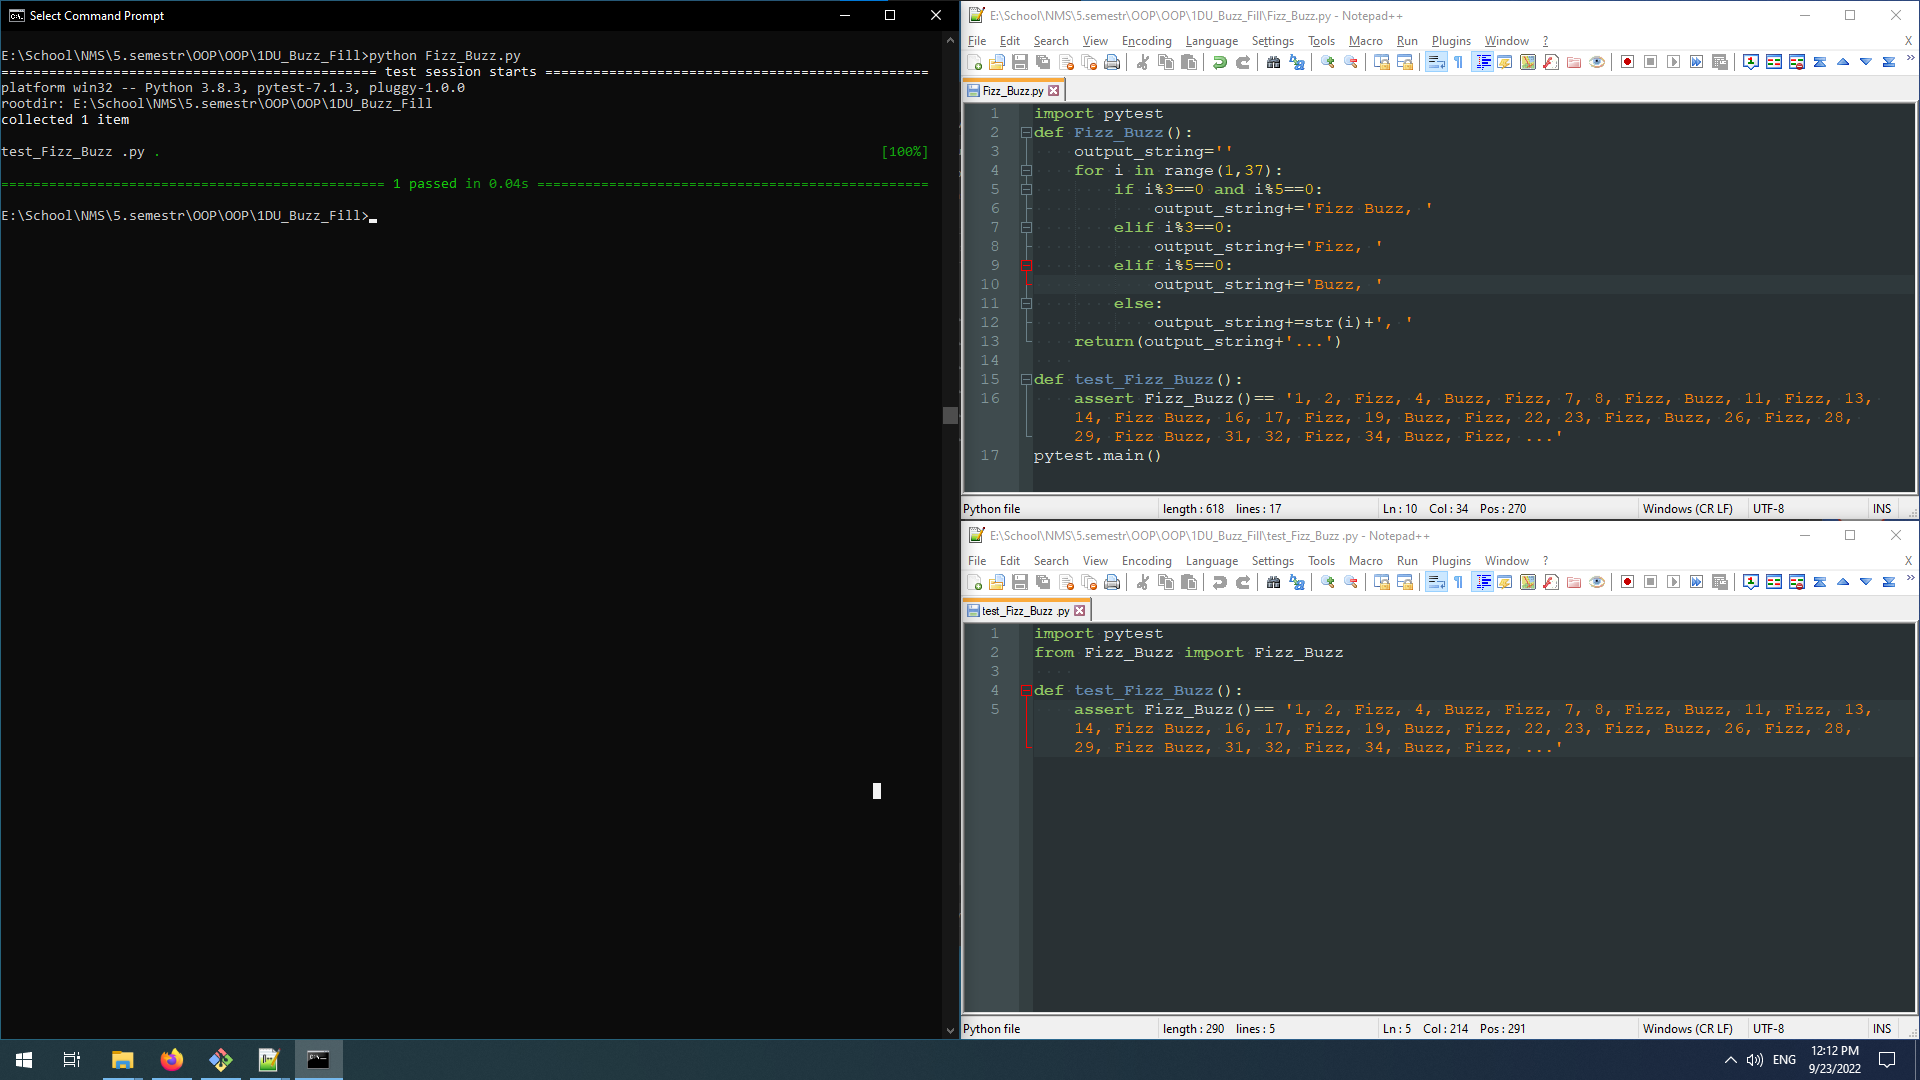
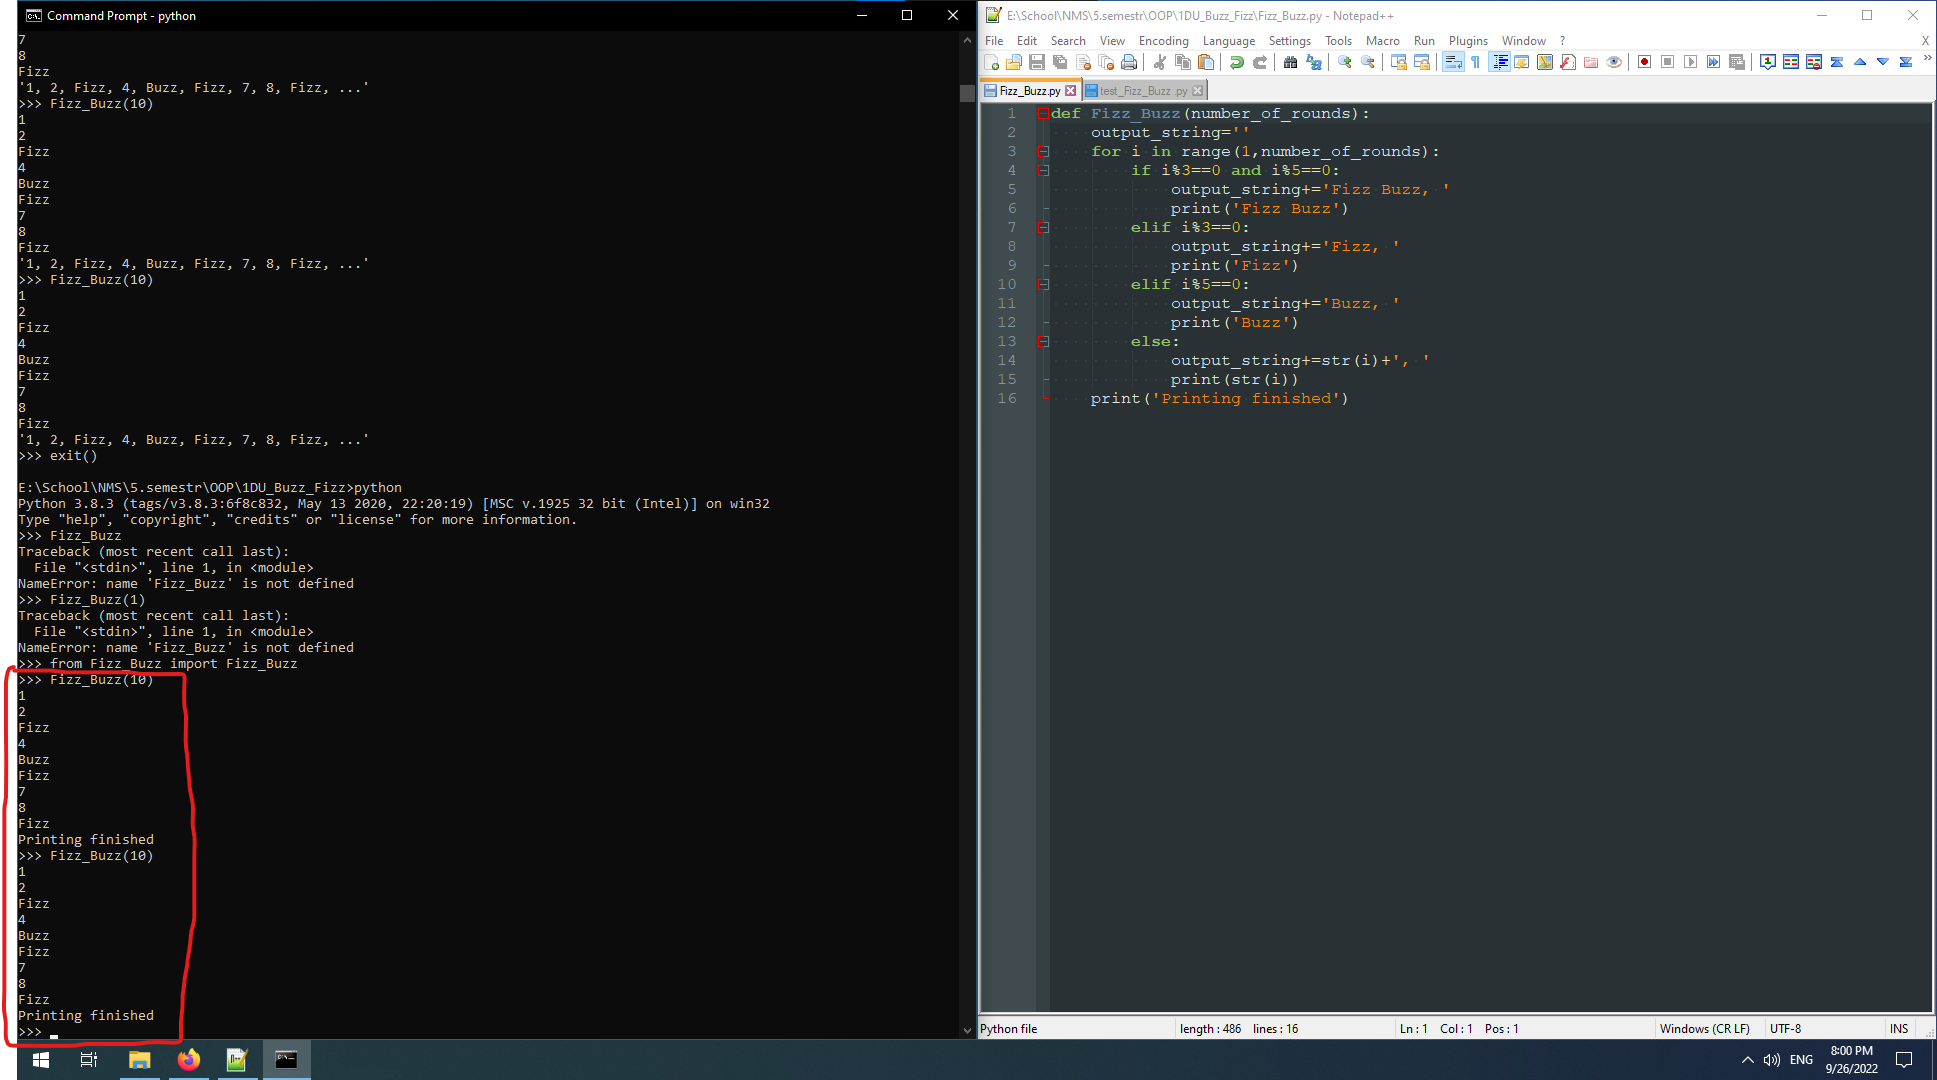
Correcting algorithm according to the task

diff --git a/1DU_Buzz_Fizz/Fizz_Buzz.py b/1DU_Buzz_Fizz/Fizz_Buzz.py
@@ -1,17 +1,16 @@
-import pytest
-def Fizz_Buzz():
+def Fizz_Buzz(number_of_rounds):
     output_string=''
-    for i in range(1,37):
+    for i in range(1,number_of_rounds):
         if i%3==0 and i%5==0:
             output_string+='Fizz Buzz, '
+            print('Fizz Buzz')
         elif i%3==0:
             output_string+='Fizz, '
+            print('Fizz')
         elif i%5==0:
             output_string+='Buzz, '
+            print('Buzz')
         else:
             output_string+=str(i)+', '
-    return(output_string+'...')
-    
-def test_Fizz_Buzz():
-    assert Fizz_Buzz()== '1, 2, Fizz, 4, Buzz, Fizz, 7, 8, Fizz, Buzz, 11, Fizz, 13, 14, Fizz Buzz, 16, 17, Fizz, 19, Buzz, Fizz, 22, 23, Fizz, Buzz, 26, Fizz, 28, 29, Fizz Buzz, 31, 32, Fizz, 34, Buzz, Fizz, ...'
-pytest.main()
+            print(str(i))
+    print('Printing finished')

diff --git a/1DU_Buzz_Fizz/test_Fizz_Buzz .py b/1DU_Buzz_Fizz/test_Fizz_Buzz .py
@@ -2,4 +2,4 @@ import pytest
 from Fizz_Buzz import Fizz_Buzz
     
 def test_Fizz_Buzz():
-    assert Fizz_Buzz()== '1, 2, Fizz, 4, Buzz, Fizz, 7, 8, Fizz, Buzz, 11, Fizz, 13, 14, Fizz Buzz, 16, 17, Fizz, 19, Buzz, Fizz, 22, 23, Fizz, Buzz, 26, Fizz, 28, 29, Fizz Buzz, 31, 32, Fizz, 34, Buzz, Fizz, ...'
+    assert Fizz_Buzz(37)== '1, 2, Fizz, 4, Buzz, Fizz, 7, 8, Fizz, Buzz, 11, Fizz, 13, 14, Fizz Buzz, 16, 17, Fizz, 19, Buzz, Fizz, 22, 23, Fizz, Buzz, 26, Fizz, 28, 29, Fizz Buzz, 31, 32, Fizz, 34, Buzz, Fizz, ...'
